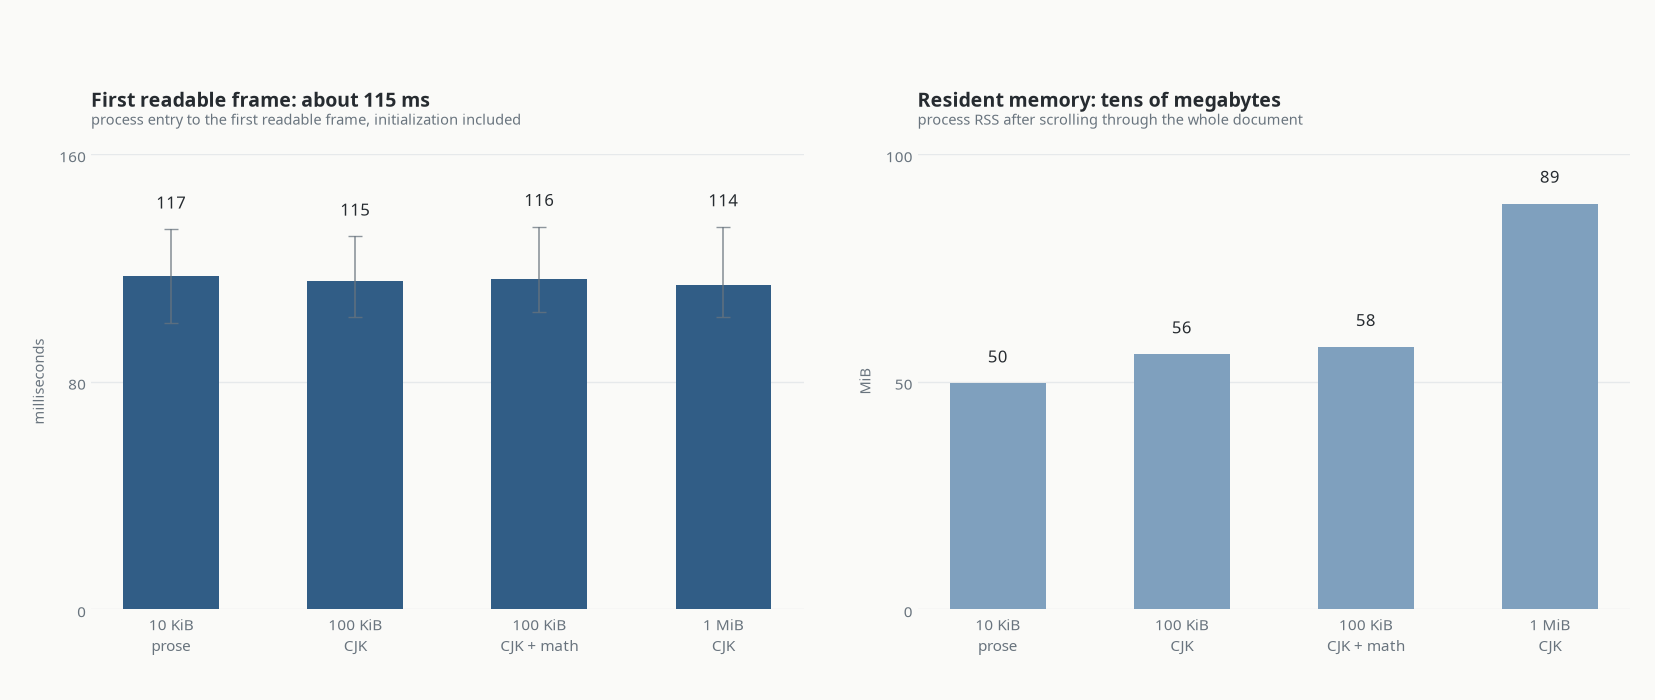
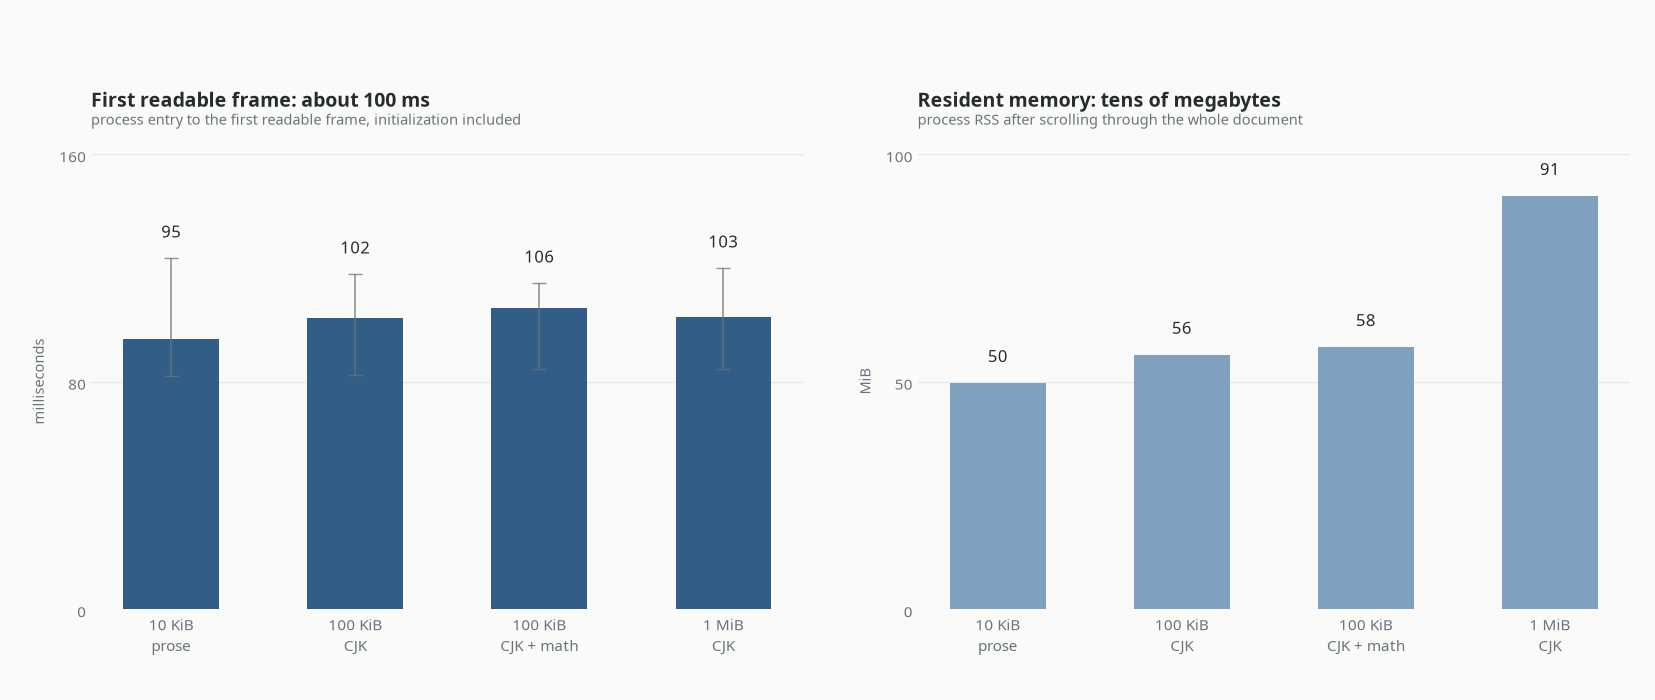
docs: refresh the measured performance baselines

diff --git a/scripts/generate_readme_charts.py b/scripts/generate_readme_charts.py
@@ -26,16 +26,16 @@ ACCENT_SOFT = "#7FA0BE"
 
 # First readable frame in a native DPR-2 window: median and observed range of
 # thirty runs per fixture, process entry and initialization included.
-LATENCY_MEDIAN = [117.0, 115.3, 116.2, 114.0]
-LATENCY_LOW = [100.6, 102.7, 104.3, 102.6]
-LATENCY_HIGH = [133.5, 131.0, 134.4, 134.3]
+LATENCY_MEDIAN = [95.1, 102.5, 105.7, 102.7]
+LATENCY_LOW = [81.9, 82.3, 84.5, 84.3]
+LATENCY_HIGH = [123.3, 117.7, 114.5, 119.8]
 # Process RSS after scrolling through the document.
-MEMORY = [49.6, 56.0, 57.6, 89.1]
+MEMORY = [49.7, 55.9, 57.6, 90.8]
 
 TEXT = {
     "file": "en-performance.png",
     "font": "Noto Sans",
-    "latency_title": "First readable frame: about 115 ms",
+    "latency_title": "First readable frame: about 100 ms",
     "latency_note": "process entry to the first readable frame, initialization "
                     "included",
     "latency_unit": "milliseconds",
@@ -50,7 +50,7 @@ TEXT = {
 ZH = {
     "file": "zh-performance.png",
     "font": "Noto Sans CJK SC",
-    "latency_title": "第一帧可读画面：约 115 毫秒",
+    "latency_title": "第一帧可读画面：约 100 毫秒",
     "latency_note": "从进程启动到第一帧可读画面，含初始化",
     "latency_unit": "毫秒",
     "latency_limit": 160,

diff --git a/docs/performance.md b/docs/performance.md
@@ -55,7 +55,7 @@ for the repeatable comparison and merge commands.
 
 ## Native baseline on the performance profile
 
-The headline figures in the root README were measured on 2026-09-22 on one
+The headline figures in the root README were measured on 2026-09-23 on one
 ordinary laptop: an Intel Core Ultra 5 125H with integrated Intel Arc (MTL)
 through Vulkan, 18 logical CPUs, Arch Linux with kernel 7.2.6, Rust
 1.96.0-nightly (2026-03-26), release mode with thin LTO and one codegen unit,
@@ -66,15 +66,16 @@ system fonts, 18 px text, a 760 px column, a 1200 × 800 window at DPR 2 on a
 `smoke` logs and that the window logs as well: process entry through
 parsing, geometry, glyph preparation and GPU completion of the first readable
 prefix, with window creation and initialization included and compositor
-presentation excluded. Each row is thirty independent processes:
+presentation excluded. Each row is thirty independent processes, interleaved
+across the fixtures so that no fixture met a colder machine than another:
 
 | Fixture | Bytes | Median (ms) | Range (ms) |
 | --- | ---: | ---: | ---: |
-| ordinary-10k | 10240 | 117.0 | 100.6–133.5 |
-| math-10k | 10240 | 114.5 | 104.1–133.5 |
-| text-cjk-100k | 102400 | 115.3 | 102.7–131.0 |
-| math-cjk-100k | 102400 | 116.2 | 104.3–134.4 |
-| text-cjk-1000k | 1024000 | 114.0 | 102.6–134.3 |
+| ordinary-10k | 10240 | 95.1 | 81.9–123.3 |
+| math-10k | 10240 | 103.3 | 84.7–126.5 |
+| text-cjk-100k | 102400 | 102.5 | 82.3–117.7 |
+| math-cjk-100k | 102400 | 105.7 | 84.5–114.5 |
+| text-cjk-1000k | 1024000 | 102.7 | 84.3–119.8 |
 
 The ranges overlap completely. Between runs the spread is wider than the
 difference between a 10 KiB note and a 1 MiB book, so what this table supports
@@ -90,14 +91,14 @@ reopens, from five processes with ten iterations each:
 
 | Fixture | `latency` RSS (MiB) | `bench` RSS (MiB) | `bench` first open (ms) |
 | --- | ---: | ---: | ---: |
-| ordinary-10k | 49.6 | 49.3 | 20.1 |
-| math-10k | 51.9 | 51.7 | 20.7 |
-| text-cjk-100k | 56.0 | 52.8 | 23.6 |
-| math-cjk-100k | 57.6 | 55.9 | 24.9 |
-| text-cjk-1000k | 89.1 | 78.7 | 78.9 |
+| ordinary-10k | 49.7 | 48.9 | 19.8 |
+| math-10k | 52.0 | 51.5 | 19.6 |
+| text-cjk-100k | 55.9 | 53.2 | 23.0 |
+| math-cjk-100k | 57.6 | 55.4 | 24.1 |
+| text-cjk-1000k | 90.8 | 81.3 | 79.4 |
 
 The two agree within 1 MiB on the ten-kilobyte fixtures and diverge as the
-document grows, by about 3 MiB at 100 KiB and about 10 MiB on the
+document grows, by 2 to 3 MiB at 100 KiB and about 10 MiB on the
 megabyte fixture, where the edit loop retains more than a full-layout pipeline
 does. `bench` first open is the mean of ten iterations rather than a P95, and
 it excludes initialization; it is listed for continuity with the older tables,
@@ -110,21 +111,22 @@ pooled, and this page does not attribute the difference to one change.
 
 The power profile is part of the result rather than a detail: the progressive
 window first frame table below recorded 148.97 ms for `ordinary-10k` under
-`power-saver` where this run records 117.0 ms. Those measurements are days and
+`power-saver` where this run records 95.1 ms. Those measurements are days and
 several changes apart, so the comparison sizes the effect instead of isolating
 it; a number reported without its power state is not comparable.
 
-These figures are also well above the 2026-09-18 baseline this page used to
+These figures are also still above the 2026-09-18 baseline this page used to
 carry, which recorded 75.9 ms and 42.2 MiB for `ordinary-10k`. The released
 0.1.3 binary still reproduces that baseline on this host when the two are
 interleaved in one session: 77.1 ms and 42.4 MiB for 0.1.3 against 109.2 ms and
-49.7 MiB for the build this table was taken from. The gap was the downloadable
+49.7 MiB for the pre-change build. The gap was the downloadable
 font catalogue: `App::new` built it on the way to the first frame, and building
 it reads and parses the whole system font collection. The Fonts and Styles pages
 now build it when they open instead. Interleaving the two builds in one session
 sizes that at 71.1 ms before app start against 21.8 ms, and 59.5 MiB of
-smoke-path RSS against 51.2. The first-frame rows above were taken before the
-change, so they are upper bounds rather than the current build.
+smoke-path RSS against 51.2. The first-frame rows above were taken after that
+change: `ordinary-10k` moved from the 109.2 ms the pre-change build recorded to
+95.1 ms, so the current build has recovered part of the gap, not all of it.
 
 Reproduce the latency column with `RUST_LOG=info target/release/markview
 smoke FIXTURE --width 1200 --height 800 --offline`, once per process; the

diff --git a/docs/comparison.md b/docs/comparison.md
@@ -80,15 +80,18 @@ Flutter and this host has no Flutter SDK.
 
 | Document | Markview first / complete | SuperGoodViewer first / complete | MarkText first / complete |
 | --- | --- | --- | --- |
-| 10 KiB of prose | 0.117 / 0.117 s | 0.625 / 0.673 s | 0.957 / 0.957 s |
-| 100 KiB of prose | 0.123 / 0.123 s | 0.730 / 0.730 s | 1.000 / 1.000 s |
-| 10 KiB, 108 display formulas | 0.123 / 0.123 s | 0.645 / 0.645 s | 1.195 / 1.195 s |
-| 100 KiB, 1092 display formulas | 0.127 / 0.127 s | 0.771 / 0.771 s | 2.863 / 2.863 s |
+| 10 KiB of prose | 0.101 / 0.101 s | 0.625 / 0.673 s | 0.957 / 0.957 s |
+| 100 KiB of prose | 0.102 / 0.102 s | 0.730 / 0.730 s | 1.000 / 1.000 s |
+| 10 KiB, 108 display formulas | 0.104 / 0.104 s | 0.645 / 0.645 s | 1.195 / 1.195 s |
+| 100 KiB, 1092 display formulas | 0.115 / 0.131 s | 0.771 / 0.771 s | 2.863 / 2.863 s |
 
-Medians of three runs, interleaved so that all three readers met the same machine
-load. Every reader paints its page in one piece at these sizes, so its first frame
-and its complete frame are the same number, save SuperGoodViewer on 10 KiB of
-prose, where a late window update puts its complete frame 48 ms after its first.
+Medians of three runs. Markview's rows were re-measured alone on 2026-09-23; the
+other two readers keep their 2026-09-22 numbers, taken interleaved so that all
+three met the same machine load. Every reader paints its page in one piece at
+these sizes, so its first frame and its complete frame are the same number, save
+SuperGoodViewer on 10 KiB of prose, where a late window update puts its complete
+frame 48 ms after its first, and Markview on 100 KiB with formulas, where one
+run's complete frame lands 16 ms after its first.
 
 SuperGoodViewer 1.0.8 renders the mathematics fixtures that 1.0.7 rejected. Its
 `\begin{pmatrix}` failure was a missing mitex prelude, fixed upstream after the
@@ -102,10 +105,10 @@ system monitor is their sum.
 
 | Document | Markview | SuperGoodViewer | MarkText |
 | --- | ---: | ---: | ---: |
-| 10 KiB of prose | 50.5 MiB | 299.9 MiB | 693.2 MiB |
-| 100 KiB of prose | 52.2 MiB | 344.4 MiB | 703.2 MiB |
-| 10 KiB, 108 display formulas | 54.7 MiB | 299.3 MiB | 750.4 MiB |
-| 100 KiB, 1092 display formulas | 55.4 MiB | 362.2 MiB | 1147.6 MiB |
+| 10 KiB of prose | 50.7 MiB | 299.9 MiB | 693.2 MiB |
+| 100 KiB of prose | 53.2 MiB | 344.4 MiB | 703.2 MiB |
+| 10 KiB, 108 display formulas | 53.8 MiB | 299.3 MiB | 750.4 MiB |
+| 100 KiB, 1092 display formulas | 53.8 MiB | 362.2 MiB | 1147.6 MiB |
 
 SuperGoodViewer keeps a cache of compiled documents under
 `$HOME/.cache/supergoodviewer`, so each run is given a private `HOME` and every
@@ -149,7 +152,7 @@ runs, with a separate cold run recorded in `artifacts/comparison/`.
 
 | Engine | 10 KiB | 100 KiB | Pages | Size | Same bytes twice |
 | --- | --- | --- | --- | --- | --- |
-| `markview pdf` | 0.041 s | 0.074 s | 4 / 40 | 62 / 425 KiB | yes |
+| `markview pdf` | 0.043 s | 0.075 s | 4 / 40 | 63 / 426 KiB | yes |
 | `sgv export` | 0.102 s | 0.163 s | 3 / 28 | 24 / 142 KiB | yes |
 | `pandoc --pdf-engine=typst` | 0.486 s | 0.678 s | 3 / 31 | 28 / 162 KiB | yes |
 | `pandoc` → headless Chromium | 0.614 s | 0.757 s | 4 / 38 | 45 / 172 KiB | no |

diff --git a/README.md b/README.md
@@ -68,7 +68,7 @@ Per-platform details and the exact artifact list are in the
 
 ## Why Markview
 
-- **Fast at any size.** About 115 ms from launch to the first readable frame,
+- **Fast at any size.** About 100 ms from launch to the first readable frame,
   whether the file is a 10 KiB note or a 1 MiB book. Layout runs on a worker
   thread and the page is published as it is built, so the window never waits for
   the whole document.
@@ -95,11 +95,11 @@ page out on a worker thread and publishes each complete prefix as it is ready.
 </p>
 
 Every document, from a 10 KiB note to a 1 MiB book, reaches its first readable
-frame in 114–117 ms, process start and initialization included. Each first-frame
+frame in 95–106 ms, process start and initialization included. Each first-frame
 bar is the median of thirty native runs and the thin line is their range; the
 ranges overlap completely, which is the point. Resident memory stays in the tens
 of megabytes: about 50 MiB for a note, 58 MiB for 100 KiB of CJK with
-mathematics, and 89 MiB for a megabyte of CJK.
+mathematics, and 91 MiB for a megabyte of CJK.
 
 These are one ordinary laptop's numbers, not a specification: an Intel Core
 Ultra 5 125H with integrated Intel Arc through Vulkan, on the `performance`
@@ -119,10 +119,10 @@ Opening a file, median of three runs in seconds, window included:
 
 | Document | Markview | SuperGoodViewer | MarkText |
 |:--|--:|--:|--:|
-| 10 KiB of prose | 0.12 | 0.63 | 0.96 |
-| 100 KiB of prose | 0.12 | 0.73 | 1.00 |
-| 10 KiB, 108 display formulas | 0.12 | 0.65 | 1.20 |
-| 100 KiB, 1092 display formulas | 0.13 | 0.77 | 2.86 |
+| 10 KiB of prose | 0.10 | 0.63 | 0.96 |
+| 100 KiB of prose | 0.10 | 0.73 | 1.00 |
+| 10 KiB, 108 display formulas | 0.10 | 0.65 | 1.20 |
+| 100 KiB, 1092 display formulas | 0.12 | 0.77 | 2.86 |
 
 Resident memory once the document is on screen, in MiB, every process of each
 reader counted:
@@ -130,9 +130,9 @@ reader counted:
 | Document | Markview | SuperGoodViewer | MarkText |
 |:--|--:|--:|--:|
 | 10 KiB of prose | 51 | 300 | 693 |
-| 100 KiB of prose | 52 | 344 | 703 |
-| 10 KiB, 108 display formulas | 55 | 299 | 750 |
-| 100 KiB, 1092 display formulas | 55 | 362 | 1148 |
+| 100 KiB of prose | 53 | 344 | 703 |
+| 10 KiB, 108 display formulas | 54 | 299 | 750 |
+| 100 KiB, 1092 display formulas | 54 | 362 | 1148 |
 
 One document to one PDF, median of three runs in seconds:
 
@@ -144,7 +144,7 @@ One document to one PDF, median of three runs in seconds:
 | `pandoc` → headless Chromium | 0.61 | 0.76 |
 | `pandoc --pdf-engine=xelatex` | 1.84 | 2.14 |
 
-One machine, one day. Method and caveats: [comparison page](docs/comparison.md).
+One machine's numbers. Method and caveats: [comparison page](docs/comparison.md).
 
 ## Mathematics
 

diff --git a/CHANGELOG.md b/CHANGELOG.md
@@ -21,6 +21,10 @@ at the same level, without `[brackets]`.
 
 ## Unreleased
 
+### Changed
+
+- Refresh the measured performance baselines, charts and comparison tables against the current build.
+
 ## 0.1.7 - 2026-09-23
 
 This patch release adds touch and trackpad gestures, captured dragging, inertial scrolling, and larger control hit areas.
